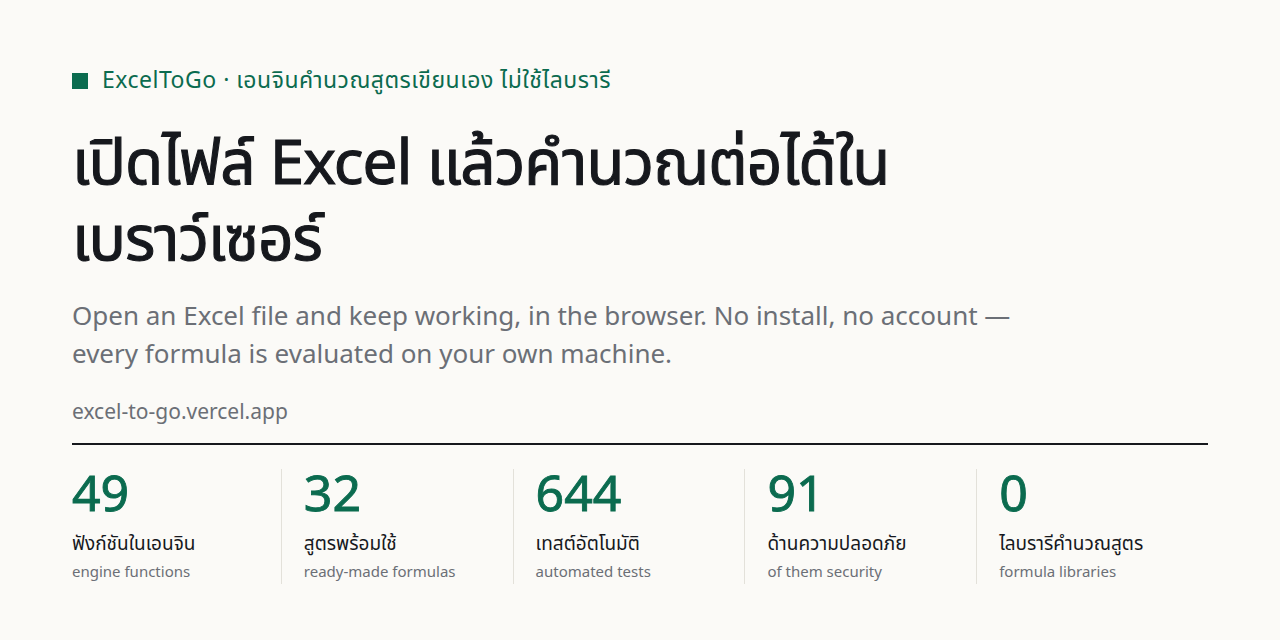
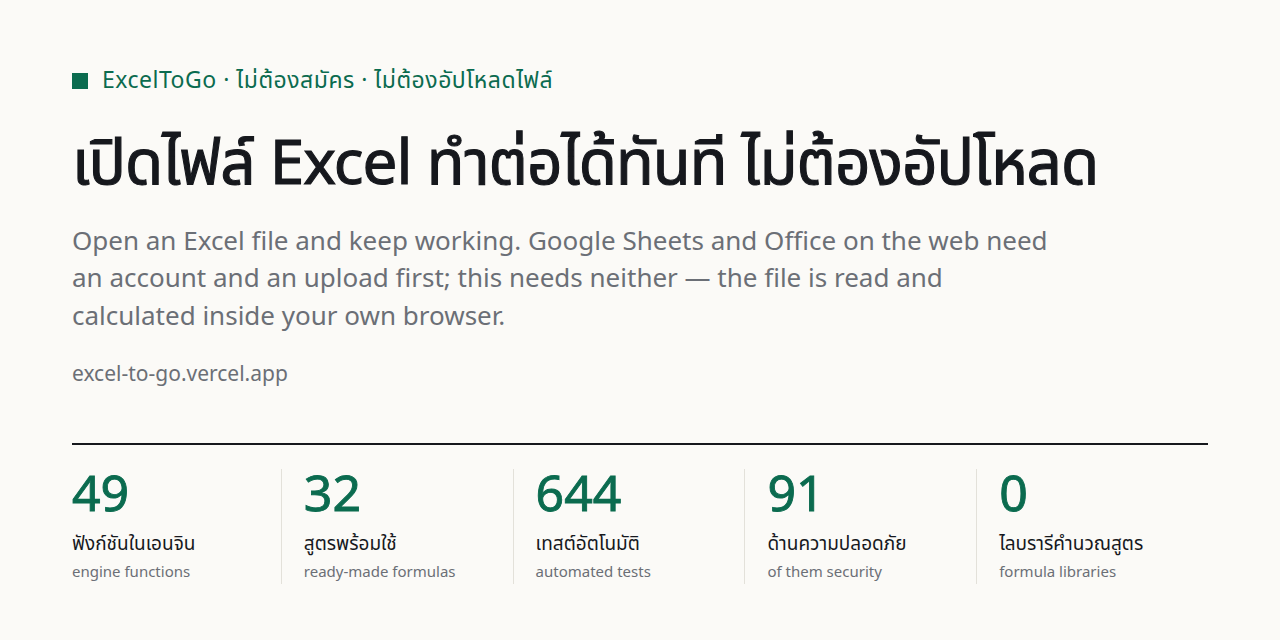
Answer "Google Sheets already does this" instead of talking past it
The headline was "open an Excel file and keep working, in the browser."
That is not a pitch — it is a description of Google Sheets and Office on
the web, both free and both with millions of users. Anyone who reads it
knows a better version of it already exists and has no reason to read the
second line.

So the page now says where the difference actually is. Both of those want
an account of theirs, and both need the file uploaded to their servers
before they will open it. This needs neither: the workbook is parsed and
evaluated in the browser (`sheetStore` dynamically imports `excelIO` on the
client — I traced every outbound call to confirm it). For a payroll sheet
or a cost-price list, that is the whole decision.

The headline, subheadline, eyebrow, CTA note, page metadata and both
preview cards were rewritten around it, and a comparison strip sits
directly under the hero: account required, file uploaded, formula palette,
source open — and **real-time co-editing and macros, which this loses**. A
table where the author wins every row is one nobody believes, and it is
also the honest answer to "should I use this instead", which for most
people is no. A note under the table says so in as many words.

Not claimed, because it isn't true: there is no service worker or manifest,
so the page cannot say it works offline. It says the calculation happens on
your machine, which it does.

Built as one real `<table>` with `<caption>` and row/column headers rather
[…]

diff --git a/src/i18n/th.ts b/src/i18n/th.ts
@@ -117,13 +117,13 @@ export const th: Messages = {
     },
   },
   landing: {
-    eyebrow: "โปรเจกต์ทดลอง · เอนจินคำนวณสูตรเขียนเอง · 644 เทสต์",
-    headline: "เปิดไฟล์ Excel แล้วคำนวณต่อได้ในเบราว์เซอร์",
+    eyebrow: "ไม่ต้องสมัคร · ไม่ต้องอัปโหลดไฟล์ · เอนจินคำนวณสูตรเขียนเอง · 644 เทสต์",
+    headline: "เปิดไฟล์ Excel ทำต่อได้ทันที ไม่ต้องอัปโหลด",
     subheadline:
-      "ไม่ต้องติดตั้ง ไม่ต้องสมัครสมาชิก — เปิดไฟล์ .xlsx แล้วหน้าตายังเหมือนเดิม ทั้งแถบสี เซลล์ที่ merge และเส้นขอบ จากนั้นเลือกสูตรจากรายการแทนการจำ หรือถาม AI เป็นภาษาคน ทุกอย่างคำนวณในเบราว์เซอร์ ข้อมูลไม่ออกจากเครื่องคุณ",
+      "Google Sheets กับ Office ออนไลน์ก็เปิดไฟล์ Excel ได้ แต่ต้องมีบัญชีของเขา และต้องส่งไฟล์ขึ้นเซิร์ฟเวอร์เขาก่อน ที่นี่ไม่ต้องทั้งสองอย่าง — ไฟล์ถูกอ่านและคำนวณในเบราว์เซอร์ของคุณ หน้าตายังเหมือนเดิมทั้งแถบสี เซลล์ที่ merge และเส้นขอบ แล้วเลือกสูตรจากรายการแทนการจำ syntax",
     ctaPrimary: "เปิดแอป",
     ctaSecondary: "ดูโค้ดบน GitHub",
-    ctaNote: "ไม่ต้องสมัคร ไม่ต้องติดตั้ง ข้อมูลเก็บในเบราว์เซอร์ของคุณเอง",
+    ctaNote: "ไฟล์เงินเดือน ราคาต้นทุน รายชื่อลูกค้า — ไม่ต้องยกให้ใครก่อนใช้งาน",
     screenshotAlt: "หน้าจอหลักของ ExcelToGo",
     demo: {
       headers: ["สินค้า", "ราคา", "จำนวน", "รวม"],
@@ -132,6 +132,19 @@ export const th: Messages = {
       emptyCell: "(เซลล์ว่าง)",
       hint: "ดับเบิลคลิกที่ราคาหรือจำนวนเพื่อแก้ตัวเลข แล้วดูคอลัมน์ “รวม” กับแถวล่างสุดคำนวณใหม่",
       caption: "ตารางนี้ไม่ใช่ภาพหน้าจอ — มันเรียกเอนจินคำนวณตัวเดียวกับที่แอปใช้ และคำนวณอยู่ในเบราว์เซอร์ของคุณตอนนี้",
+    },
+    compare: {
+      title: "ต่างจาก Google Sheets กับ Office ออนไลน์ตรงไหน",
+      columns: ["ExcelToGo", "Google Sheets", "Office ออนไลน์"],
+      rows: [
+        { label: "ต้องสมัคร/ล็อกอินก่อนใช้", values: ["ไม่ต้อง", "ต้องมีบัญชี Google", "ต้องมีบัญชี Microsoft"], good: true },
+        { label: "ไฟล์ถูกส่งขึ้นเซิร์ฟเวอร์ผู้ให้บริการ", values: ["ไม่ส่ง", "ส่ง", "ส่ง"], good: true },
+        { label: "แผงสูตรพร้อมปุ่มลากเลือกช่วงเซลล์", values: ["มี", "ไม่มี", "ไม่มี"], good: true },
+        { label: "เปิดโค้ดทั้งหมดให้ตรวจสอบได้", values: ["Apache-2.0", "ไม่เปิด", "ไม่เปิด"], good: true },
+        { label: "แก้พร้อมกันหลายคน / macro", values: ["ไม่มี", "มี", "มี"], good: false },
+      ],
+      disclaimer:
+        "ตารางนี้ไม่ได้บอกว่าแอปนี้แทนสองเจ้านั้นได้ — ทั้งคู่ทำได้มากกว่านี้มาก แถวสุดท้ายจึงอยู่ในตารางด้วย สิ่งที่ตารางบอกคือจุดที่ต่างกันจริง ๆ และเป็นจุดที่สำคัญเมื่อไฟล์ในมือเป็นไฟล์ที่ไม่อยากอัปโหลด",
     },
     problemTitle: "ปัญหาที่ตั้งใจแก้",
     problems: [

diff --git a/src/app/page.tsx b/src/app/page.tsx
@@ -120,7 +120,7 @@ export default function Landing() {
               <span className="h-[7px] w-[7px] shrink-0 bg-ledger" aria-hidden />
               {t.landing.eyebrow}
             </p>
-            <h1 className="mt-5 max-w-[19ch] text-[2.05rem] font-semibold leading-[1.22] tracking-[-0.022em] text-ink sm:text-[2.75rem] lg:text-[3.05rem]">
+            <h1 className="mt-5 max-w-[22ch] text-[2.05rem] font-semibold leading-[1.22] tracking-[-0.022em] text-ink sm:text-[2.75rem] lg:text-[3.05rem]">
               {t.landing.headline}
             </h1>
             <p className="mt-5 max-w-xl text-[15.5px] leading-[1.75] text-ash">{t.landing.subheadline}</p>
@@ -146,6 +146,69 @@ export default function Landing() {
             <LiveSheet />
             <p className="mt-3.5 border-l-2 border-ledger pl-3 text-[12.5px] leading-relaxed text-ash">{t.landing.demo.caption}</p>
           </div>
+        </div>
+      </section>
+
+      {/* ── Where this differs ───────────────────────────────────────────────────────────────
+          Unnumbered on purpose: it belongs to the pitch, not to the numbered tour below it.
+          The first thing a visitor thinks is "Sheets already does this", and they are right, so
+          the page answers it here instead of hoping they read far enough to find out. Every row
+          is a checkable fact, and the row the app loses is in the table too — a comparison that
+          only the author wins is one nobody believes. */}
+      <section className="border-b border-rule bg-white">
+        <div className="mx-auto max-w-6xl px-4 py-12 sm:px-8 sm:py-14">
+          {/* A scrollable table has to be reachable by keyboard, or someone who cannot use a
+              pointer cannot read the columns that are off-screen at phone width. */}
+          <div
+            role="region"
+            aria-label={t.landing.compare.title}
+            tabIndex={0}
+            className="-mx-4 overflow-x-auto px-4 focus-visible:outline focus-visible:outline-2 focus-visible:outline-offset-2 focus-visible:outline-ledger sm:mx-0 sm:px-0"
+          >
+            <table className="w-full border-collapse text-left sm:min-w-[34rem]">
+              <caption className="mb-5 text-left text-[1.35rem] font-semibold leading-snug tracking-[-0.015em] text-ink sm:text-[1.6rem]">
+                {t.landing.compare.title}
+              </caption>
+              <thead>
+                <tr className="border-b-2 border-ink">
+                  <th scope="col" className="py-2.5 pr-2 sm:pr-4" />
+                  {t.landing.compare.columns.map((c, i) => (
+                    <th
+                      key={c}
+                      scope="col"
+                      className={`w-[19%] py-2.5 pl-1.5 font-mono text-[10.5px] leading-snug sm:w-[17%] sm:pl-3 sm:text-[12px] ${
+                        i === 0 ? "font-semibold text-ledger" : "font-normal text-ash"
+                      }`}
+                    >
+                      {c}
+                    </th>
+                  ))}
+                </tr>
+              </thead>
+              <tbody>
+                {t.landing.compare.rows.map((row, i) => (
+                  <tr key={row.label} className={`border-b border-rule ${i % 2 === 1 ? "bg-band/40" : ""}`}>
+                    <th scope="row" className="py-3.5 pr-2 text-[12px] font-medium leading-snug text-ink sm:pr-4 sm:text-[14px]">
+                      {row.label}
+                    </th>
+                    {row.values.map((v, j) => (
+                      <td
+                        key={t.landing.compare.columns[j]}
+                        className={`py-3.5 pl-1.5 text-[11.5px] leading-snug sm:pl-3 sm:text-[13.5px] ${
+                          j === 0 && row.good ? "font-semibold text-ledger" : "text-ash"
+                        }`}
+                      >
+                        {v}
+                      </td>
+                    ))}
+                  </tr>
+                ))}
+              </tbody>
+            </table>
+          </div>
+          <p className="mt-5 max-w-3xl border-l-2 border-rule pl-3.5 text-[13px] leading-relaxed text-ash">
+            {t.landing.compare.disclaimer}
+          </p>
         </div>
       </section>
 

diff --git a/src/i18n/en.ts b/src/i18n/en.ts
@@ -117,13 +117,13 @@ export const en: Messages = {
     },
   },
   landing: {
-    eyebrow: "A side project · hand-written formula engine · 644 tests",
-    headline: "Open an Excel file and keep working, in the browser",
+    eyebrow: "No sign-up · no upload · hand-written formula engine · 644 tests",
+    headline: "Open an Excel file and keep working. Nothing gets uploaded",
     subheadline:
-      "No install, no account. Your .xlsx opens still looking like itself — colour bands, merged cells, borders — and then you can pick formulas from a list instead of remembering them, or just ask in plain language. It all runs in your browser; the data never leaves your machine.",
+      "Google Sheets and Office on the web open Excel files too — but both want an account of theirs, and both need the file uploaded to their servers first. This needs neither: the file is read and calculated inside your browser. It still looks like itself, colour bands, merged cells and borders intact, and you pick formulas from a list instead of remembering the syntax.",
     ctaPrimary: "Open the app",
     ctaSecondary: "View the code on GitHub",
-    ctaNote: "No sign-up, no install — your data stays in your own browser",
+    ctaNote: "Payroll, cost prices, a customer list — nothing you have to hand over first",
     screenshotAlt: "The main ExcelToGo screen",
     demo: {
       headers: ["Item", "Price", "Qty", "Total"],
@@ -132,6 +132,19 @@ export const en: Messages = {
       emptyCell: "(empty cell)",
       hint: "Double-click a price or a quantity to change it, then watch the Total column and the bottom row recompute.",
       caption: "This table is not a screenshot — it calls the same engine the app runs on, computing in your browser right now.",
+    },
+    compare: {
+      title: "Where this differs from Google Sheets and Office on the web",
+      columns: ["ExcelToGo", "Google Sheets", "Office on the web"],
+      rows: [
+        { label: "Account required before you can start", values: ["No", "Google account", "Microsoft account"], good: true },
+        { label: "File uploaded to the provider's servers", values: ["No", "Yes", "Yes"], good: true },
+        { label: "Formula palette with a drag-to-pick range button", values: ["Yes", "No", "No"], good: true },
+        { label: "Source open to inspection", values: ["Apache-2.0", "Closed", "Closed"], good: true },
+        { label: "Real-time co-editing / macros", values: ["No", "Yes", "Yes"], good: false },
+      ],
+      disclaimer:
+        "This table does not claim the app replaces either of them — both do far more, which is why the last row is in the table too. What it shows is where the difference actually is, and that difference matters most when the file in front of you is one you would rather not upload.",
     },
     problemTitle: "What it's for",
     problems: [

diff --git a/src/app/layout.tsx b/src/app/layout.tsx
@@ -31,8 +31,8 @@ const plexMono = IBM_Plex_Mono({
 });
 
 const DESCRIPTION =
-  "เปิดไฟล์ .xlsx ในเบราว์เซอร์แล้วคำนวณต่อได้เลย ไม่ต้องติดตั้ง ไม่ต้องสมัครสมาชิก — หน้าตาไฟล์ยังเหมือนเดิม เลือกสูตรจากรายการแทนการจำ และถาม AI เป็นภาษาคนได้";
-const TITLE = "ExcelToGo — เปิดไฟล์ Excel แล้วคำนวณต่อได้ในเบราว์เซอร์";
+  "เปิดไฟล์ .xlsx ทำต่อได้ทันทีโดยไม่ต้องอัปโหลด — ไม่ต้องสมัคร ไม่ต้องติดตั้ง ไฟล์ถูกอ่านและคำนวณในเบราว์เซอร์ของคุณ หน้าตาไฟล์ยังเหมือนเดิม เลือกสูตรจากรายการแทนการจำ และถาม AI เป็นภาษาคนได้";
+const TITLE = "ExcelToGo — เปิดไฟล์ Excel ทำต่อได้ทันที ไม่ต้องอัปโหลด";
 
 export const metadata: Metadata = {
   // Absolute URLs in the Open Graph tags need a base, and og:image is resolved against it — without

diff --git a/src/app/opengraph-image.tsx b/src/app/opengraph-image.tsx
@@ -9,7 +9,7 @@ import { ImageResponse } from "next/og";
  * mean fetching font bytes at build time. The preview is branding, not content, so Latin is enough;
  * the app itself is fully bilingual.
  */
-export const alt = "ExcelToGo — open an Excel file and keep working, in the browser";
+export const alt = "ExcelToGo — open an Excel file and keep working, with nothing uploaded";
 export const size = { width: 1200, height: 630 };
 export const contentType = "image/png";
 
@@ -60,11 +60,11 @@ export default function OgImage() {
             maxWidth: 1040,
           }}
         >
-          Open an Excel file and keep working, in the browser
+          Open an Excel file and keep working. Nothing gets uploaded
         </div>
 
         <div style={{ fontSize: 28, color: ASH, marginTop: 22, maxWidth: 940, lineHeight: 1.4 }}>
-          No install, no account. A hand-written formula engine, live in your browser.
+          No account, no upload — the file is parsed and calculated inside your own browser.
         </div>
 
         <div style={{ flex: 1 }} />

diff --git a/src/i18n/types.ts b/src/i18n/types.ts
@@ -160,6 +160,18 @@ export interface Messages {
       hint: string;
       caption: string;
     };
+    /** The three-column strip under the hero. It answers the first objection a visitor has —
+     *  "Google Sheets and Office already do this" — which is true, so the page has to say where
+     *  the difference actually is rather than talk past it. Every row must be a fact a reader can
+     *  check, and `disclaimer` states plainly what the table is *not* claiming. */
+    compare: {
+      title: string;
+      /** Column headers: this app first, then the two it is being measured against. */
+      columns: [string, string, string];
+      /** `values` is paired by index with `columns`; `good` marks which column the row favours. */
+      rows: { label: string; values: [string, string, string]; good: boolean }[];
+      disclaimer: string;
+    };
     problemTitle: string;
     problems: { title: string; body: string }[];
     featuresTitle: string;

diff --git a/README.en.md b/README.en.md
@@ -30,7 +30,11 @@ Runs in your browser; your data stays on your machine.
   <img alt="CI" src="https://github.com/SuruchBoss/ExcelToGo/actions/workflows/ci.yml/badge.svg">
 </p>
 
-A Next.js web app that turns an Excel-style grid into a friendlier UI: drag-and-drop ready-made formulas instead
+Google Sheets and Office on the web open .xlsx files too, but both want an account of theirs and both need the
+file uploaded to their servers first. This needs neither: the workbook is parsed and calculated inside the
+browser, so a payroll or cost-price file never leaves the machine.
+
+Beyond that, a Next.js web app that turns an Excel-style grid into a friendlier UI: drag-and-drop ready-made formulas instead
 of memorizing syntax, an AI assistant that suggests formulas from a natural-language question (Thai or English),
 and a hand-written formula engine (tokenizer → parser → evaluator, no third-party formula library) supporting
 cell/range references, relative & structural reference adjustment, circular-reference detection, multi-sheet
@@ -898,6 +902,14 @@ spreadsheet is asking to be taken on trust; this asks for ten seconds instead. I
 honest: if the engine regresses, the front page visibly breaks.
 
 <p align="center"><img src="public/screenshots/25-landing.png" width="820"></p>
+
+**The old pitch said nothing.** "Open Excel and keep working in the browser" is what Google Sheets and Office on
+the web already do, for free, for millions of people. The page now answers that objection directly, right under
+the hero, instead of hoping a visitor reads far enough to find the difference themselves. Every row is a
+checkable fact — and **the row this app loses is in the table too**, because a comparison the author wins
+outright is one nobody believes.
+
+<p align="center"><img src="public/screenshots/32-landing-compare.png" width="900"></p>
 
 The page is laid out as **ledger paper** rather than as a stack of rounded cards: hairline rules instead
 of boxes, square corners, the alternating pale-green row bands of accounting paper, monospace with tabular
